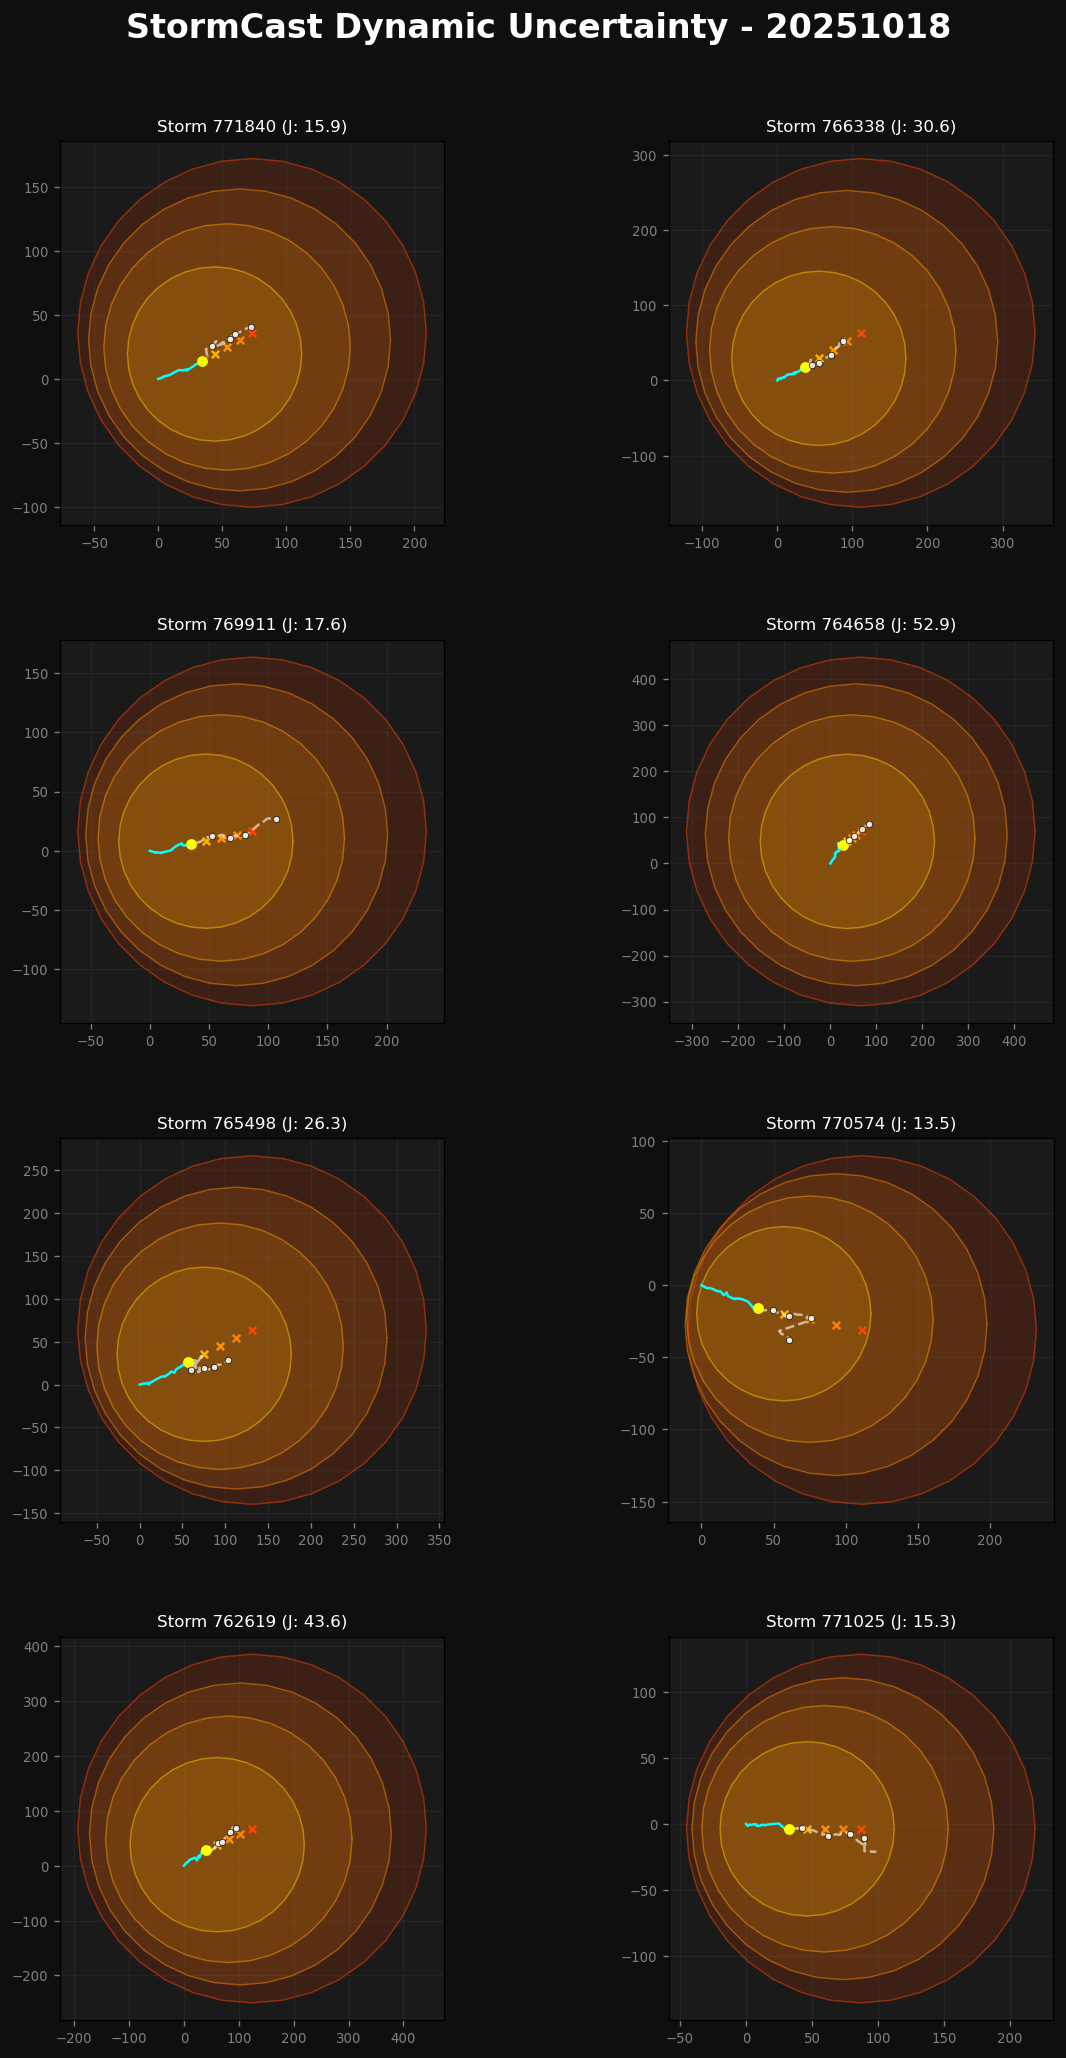
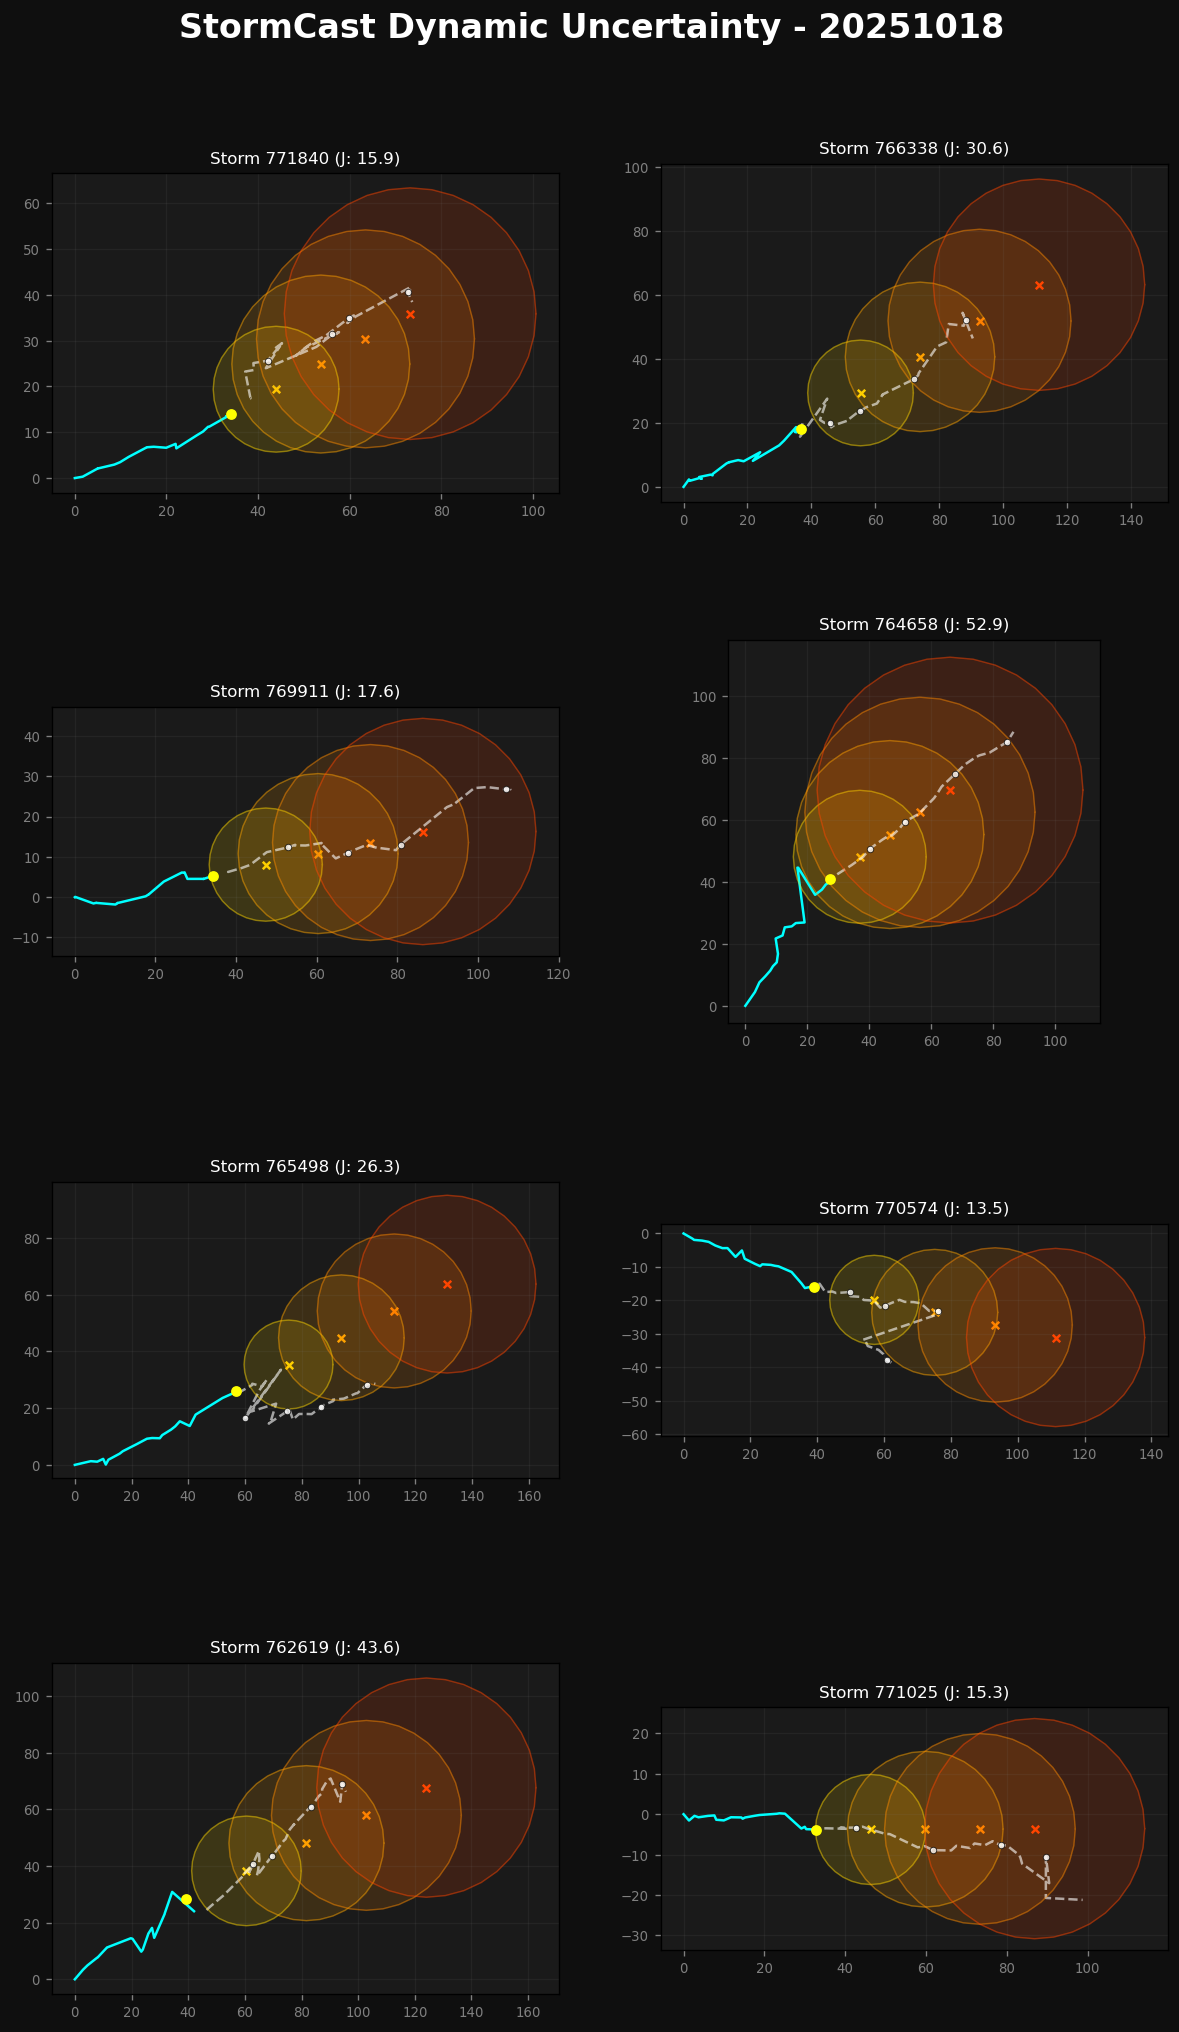
Optimize jitter weights

diff --git a/src/StormCast/config.py b/src/StormCast/config.py
@@ -118,12 +118,12 @@ class UncertaintyParams:
     jitter_multiplier: float # Multiplier for velocity standard deviation
 
 UNCERTAINTY_PARAMS = UncertaintyParams(
-    sigma_min=3.0,
-    sigma_range=15.0,
+    sigma_min=1.5,
+    sigma_range=3.0,
     alpha_decay=0.5,
-    sigma_obs=5.0,
-    sigma_env=4.0,
-    jitter_multiplier=1.5,
+    sigma_obs=4.0,
+    sigma_env=2.5,
+    jitter_multiplier=0.12,
 )
 
 # =============================================================================
